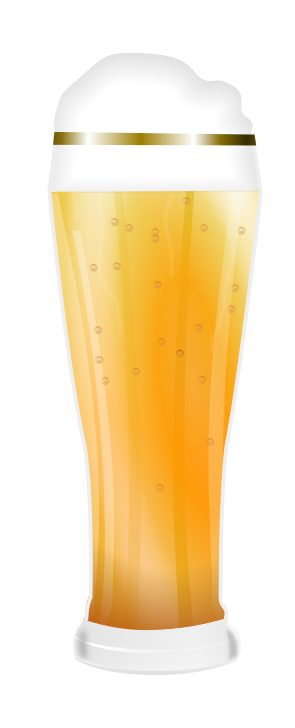
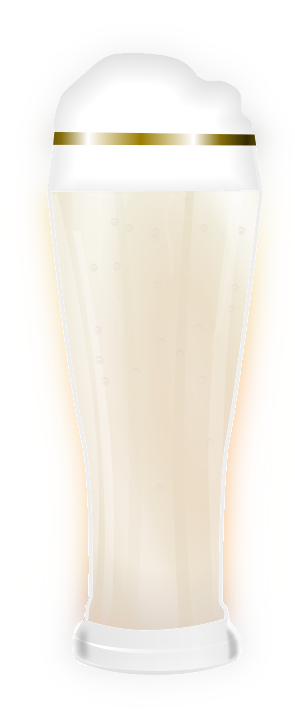
client stats

diff --git a/src/components/CreateBeerDisplay.js b/src/components/CreateBeerDisplay.js
@@ -1,28 +1,69 @@
-import React, { StrictMode } from 'react'
+import React from 'react'
 import pale from '../assets/images/pale-beer.png'
-import red from '../assets/images/red-beer.png'
-import brown from '../assets/images/brown-beer.png'
-import dark from '../assets/images/dark-beer.png'
 
-const CreateBeerDisplay = ({srm, ibu}) => {
+const CreateBeerDisplay = ({srm}) => {
 
-  const imageColor = (srm) => {
-    switch (srm) {
-      case srm > 10:
-        return red
-      case srm > 25:
-        return brown  
-      case srm > 35:
-        return dark
-      default: 
-        return pale
-        break;
-    }
+  const hex = [
+    "#F3F993",
+    "#F5F75C",
+    "#F6F513",
+    "#EAE615",
+    "#E0D01B",
+    "#D5BC26",
+    "#CDAA37",
+    "#C1963C",
+    "#BE8C3A",
+    "#BE823A",
+    "#C17A37",
+    "#BF7138",
+    "#BC6733",
+    "#B26033",
+    "#A85839",
+    "#985336",
+    "#8D4C32",
+    "#7C452D",
+    "#6B3A1E",
+    "#5D341A",
+    "#4E2A0C",
+    "#4A2727",
+    "#361F1B",
+    "#261716",
+    "#231716",
+    "#19100F",
+    "#16100F",
+    "#120D0C",
+    "#100B0A",
+    "#050B0A"
+  ]
+
+  const beerColor = (esrm) => {
+    let lovibond = esrm - 1
+    if(lovibond < 0) {lovibond = 0}
+    if(lovibond > 30) {lovibond = 30}
+    return hex[lovibond]
   }
 
+  
   return (
     <div className="create-beer-display">
-      <img src={imageColor(srm)} alt="created-beer"></img>
+      <div className="beer-image-overlays">
+        <svg id="overlayed-beer-svg" version="1.0" xmlns="http://www.w3.org/2000/svg"
+          width="295.000000pt" height="728.000000pt" viewBox="0 0 295.000000 728.000000"
+          preserveAspectRatio="xMidYMid meet">
+          <metadata>
+          Created by potrace 1.16, written by Peter Selinger 2001-2019
+          </metadata>
+          <g transform="translate(0.000000,728.000000) scale(0.100000,-0.100000)"
+          fill={beerColor(srm)} stroke="none">
+          <path id="beer-cover-shape" d="M1456 5373 l-949 -3 7 -73 c72 -764 217 -1826 321 -2354 63 -319 85
+          -637 85 -1255 0 -260 -4 -396 -11 -415 -13 -32 -39 -195 -33 -205 5 -7 187
+          -51 279 -67 258 -45 593 -29 923 45 64 14 128 31 142 37 38 18 38 63 -1 134
+          l-31 58 6 390 c12 738 28 964 96 1380 56 342 92 588 149 1030 51 388 151 1235
+          151 1275 l0 30 -92 -2 c-51 -2 -520 -4 -1042 -5z"/>
+          </g>
+        </svg>
+        <img id="beer-bg" src={pale} alt="created-beer"></img>
+      </div>
     </div>
   )
 }

diff --git a/src/components/Recipe.js b/src/components/Recipe.js
@@ -6,6 +6,13 @@ import Reviews from './recipe_show/Reviews'
 import { useHistory, Link } from "react-router-dom";
 import Stats from './recipe_show/Stats'
 import { connect, useSelector, useDispatch } from "react-redux";
+import brown from '../assets/images/brown.png'
+import paleAle from '../assets/images/pale-ale.png'
+import paleTall from '../assets/images/pale-tall.png'
+import pilsner from '../assets/images/pilsner.png'
+import redShort from '../assets/images/red-short.png'
+import redTall from '../assets/images/red-tall.png'
+import stout from '../assets/images/stout.png'
 
 const Recipe = ({recipeId}) => {
 
@@ -16,6 +23,7 @@ const Recipe = ({recipeId}) => {
   const [recipe, setRecipe] = useState(null)
   const [reviewToEdit, setReviewToEdit] = useState(null)
   const [modalShow, setModalShow] = useState(false)
+  const [img, setImg] = useState(null)
   
   let history = useHistory()
   
@@ -29,7 +37,30 @@ const Recipe = ({recipeId}) => {
     .then(data => {
       setRecipe(data)
       setReviews(data.reviews)
+      setImg(data.styles.map(style => style.image))
     })
+  }
+
+  const beerImage = (img) => {
+    switch (img) {
+      case "brown":
+        return brown
+      case "pale-ale":
+        return paleAle
+      case "pale-tall":
+        return paleTall
+      case "pilsner":
+        return pilsner
+      case "red-short":
+        return redShort
+      case "red-tall":
+        return redTall
+      case "stout":
+        return stout
+
+      default:
+        break;
+    }
   }
 
   const ratingAndReviewForms = () => {
@@ -90,6 +121,10 @@ const Recipe = ({recipeId}) => {
       <Row>
         <Col >
           <Stats recipe={recipe}/>
+        </Col>
+          <img src={beerImage(img)} alt="beer-style"/>
+        <Col>
+
         </Col>
         <Col>
           {recipe.ratings.length !== 0 ? <h5>Average Rating: {avgRating()}</h5> :

diff --git a/src/components/RecipeCard.js b/src/components/RecipeCard.js
@@ -1,18 +1,48 @@
 import React from 'react'
 import { Card } from 'react-bootstrap'
 import { LinkContainer } from "react-router-bootstrap";
+import brown from '../assets/images/brown.png'
+import paleAle from '../assets/images/pale-ale.png'
+import paleTall from '../assets/images/pale-tall.png'
+import pilsner from '../assets/images/pilsner.png'
+import redShort from '../assets/images/red-short.png'
+import redTall from '../assets/images/red-tall.png'
+import stout from '../assets/images/stout.png'
 
 const RecipeCard = ({recipe}) => {
 
-  const style = recipe.styles.map(style => style.name)
-  
-  return(
-    
+  const style = recipe.styles.map(style => style.short_name)
+  const image = recipe.styles.map(style => style.image)
+
+  const beerImage = (img) => {
+    switch (img) {
+      case "brown":
+        return brown
+      case "pale-ale":
+        return paleAle
+      case "pale-tall":
+        return paleTall
+      case "pilsner":
+        return pilsner
+      case "red-short":
+        return redShort
+      case "red-tall":
+        return redTall
+      case "stout":
+        return stout
+
+      default:
+        break;
+    }
+  }
+
+  return(   
     <LinkContainer to={`/recipes/${recipe.id}`} style={{cursor: "pointer"}}>
         <Card className="recipe-card shadow text-center border-0">
           <Card.Body>
             <Card.Title>{recipe.name}</Card.Title>
             <Card.Text>{style}</Card.Text>
+            <Card.Img src={beerImage(image)}/>
           </Card.Body>
           <Card.Footer>Creator: {recipe.user.username}</Card.Footer>
         </Card>

diff --git a/src/containers/RecipeForm.js b/src/containers/RecipeForm.js
@@ -70,10 +70,18 @@ function RecipeForm(){
     const efficiency = (totalPotential * 0.72) * (attenuation * 0.01)
     const preBoilOG = ((efficiency/batchSize) / 1000) + 1
     const OG = preBoilOG + (((preBoilOG - 1) * .55))
-    OG && setOg(OG.toFixed(3))
-    calculateFG(OG)
-    calculateIBUs(OG)
-    calculateSRM(chosenFermentables)
+    if(OG) {
+      setOg(OG.toFixed(3))
+      calculateFG(OG)
+      calculateIBUs(OG)
+      calculateSRM(chosenFermentables)
+    } else{
+      setOg(1.000)
+      setFg(1.000)
+      setAbv(0)
+      setIbu(0)
+      setSrm(0)
+    }
   }
 
   const calculateFG = (og) => {
@@ -132,7 +140,12 @@ function RecipeForm(){
       hops: selectedHops, 
       yeasts: selectedYeasts,
       instructions: instructions,
-      notes: notes
+      notes: notes,
+      og: og,
+      fg: fg,
+      abv: abv,
+      ibu: ibu,
+      srm: srm
     }
     fetch("http://localhost:3000/recipes", {
       method: "POST",

diff --git a/src/components/recipe_show/Stats.js b/src/components/recipe_show/Stats.js
@@ -1,4 +1,4 @@
-import React, { useEffect, useState } from 'react'
+import React from 'react'
 
 
 const Stats = ({recipe}) => {
@@ -6,8 +6,8 @@ const Stats = ({recipe}) => {
   return (
     <div className="recipe-stats">
       <h5>Stats</h5>
-      <p>OG: {recipe.original_gravity}</p>
-      <p>FG: {recipe.final_gravity}</p>
+      <p>OG: {recipe.og}</p>
+      <p>FG: {recipe.fg}</p>
       <p>ABV: {recipe.abv}%</p>
       <p>IBU: {recipe.ibu}</p>
       <p>SRM: {recipe.srm}° L</p>

diff --git a/src/App.css b/src/App.css
@@ -214,10 +214,32 @@ body {
   top: 380px;
 }
 
-.create-beer-display img {
+.beer-image-overlays{
+  position: relative;
   width: 150px;
-  
+  height: 380px;
 }
+
+#beer-bg {
+  position: absolute;
+  top: 0;
+  width: 100%;
+  height: auto;
+}
+
+#overlayed-beer-svg{
+  position: relative;
+  z-index: 2;
+  mix-blend-mode: multiply;
+  width: 112.6pt;
+  height: auto;
+}
+
+#beer-cover-shape{
+  filter: invert(1)
+}
+
+
 
 .App-header {
   background-color: #282c34;
